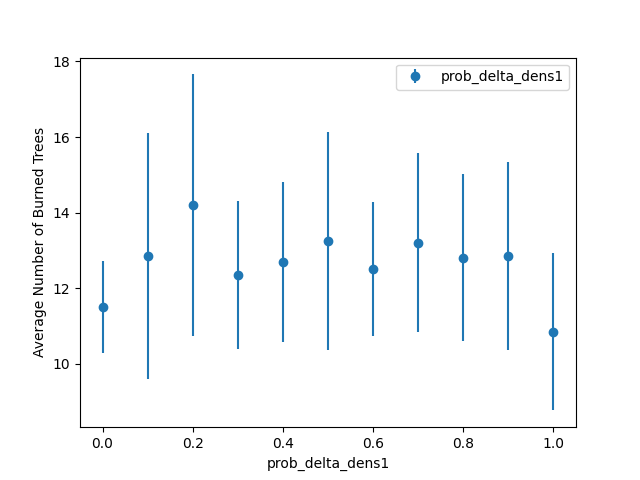
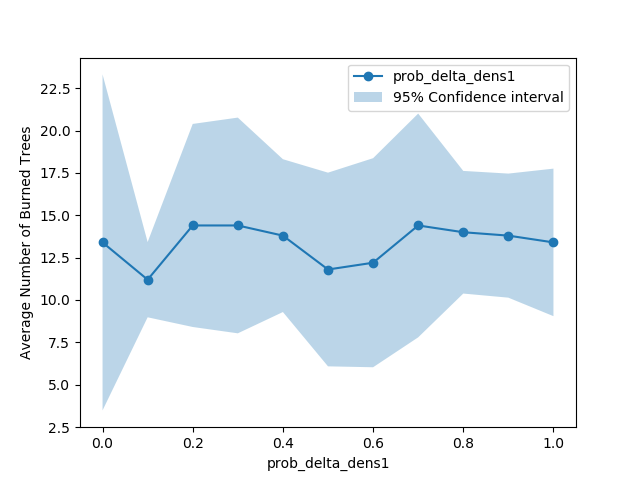
Saving data simulation

diff --git a/make_plots.py b/make_plots.py
@@ -3,6 +3,9 @@ from simulate import WildFireSimulation
 import os
 import numpy as np
 import scipy.stats as stats
+import openpyxl
+import pandas as pd
+import time
 
 class MakePlots:
 
@@ -11,28 +14,47 @@ class MakePlots:
 
     def sensitivity_analysis(self, sim, parameter, values, n_simulations):
         results = []
-        for value in values:
+        start_time = time.time()
+        for i in range(0, len(values)):
+            value = values[i]
             sim.set_params(parameter, value)
             burned = np.array([WildFireSimulation.get_burnt(sim) for _ in range(n_simulations)])
             mean = np.mean(burned)
             confidence_interval = stats.t.interval(0.95, len(burned)-1, loc=mean, scale=stats.sem(burned))
             results.append((value, mean, confidence_interval))
 
-        # values for plotting
+            # Saving burned list to excel file
+            workbook = openpyxl.load_workbook('Fire_data.xlsx')
+            sheet = workbook[parameter]
+            column_letters = ['A', 'B', 'C', 'D', 'E', 'F', 'G', 'H', 'I', 'J', 'K', 'L']
+            column_letter = column_letters[i]
+            # Iterate over the numbers and add them to the column
+            for j, number in enumerate(burned, start=1):
+                cell = f'{column_letter}{j}'
+                sheet[cell].value = number
+            workbook.save('Fire_data.xlsx')
+
+        # Define values, mean and CI
         values = [result[0] for result in results]
         means = np.array([result[1] for result in results])
         lower_ci = np.array([result[2][0] for result in results])
         upper_ci = np.array([result[2][1] for result in results])
 
         # Plot results
-        plt.figure()
-        plt.errorbar(values, means, yerr=[means - lower_ci, upper_ci - means], marker='o', linestyle='', label=parameter)
-        plt.xlabel(parameter)
-        plt.ylabel('Average Number of Burned Trees')
-        plt.legend()
+        #plt.figure()
+        #plt.fill_between(values, lower_ci, upper_ci, alpha=0.3, label='95% Confidence interval')
+        #plt.plot(values, means, 'o-', label=parameter)
+        #plt.errorbar(values, means, yerr=[means - lower_ci, upper_ci - means], marker='o', linestyle='', label=parameter)
+        #plt.xlabel(parameter)
+        #plt.ylabel('Average Number of Burned Trees')
+        #plt.legend()
 
         # Saving in 'plots' folder
-        filename = f'{parameter}_sensitivity.png'
-        filepath = os.path.join('plots', filename)
-        plt.savefig(filepath)
-        plt.show()
+        #filename = f'{parameter}_sensitivity.png'
+        #filepath = os.path.join('plots', filename)
+        #plt.savefig(filepath)
+        #plt.show()
+
+        end_time = time.time()
+        elapsed_time = end_time - start_time
+        print(f"Computation time: {elapsed_time} seconds")

diff --git a/main.py b/main.py
@@ -20,7 +20,7 @@ if __name__=="__main__":
     # Example:
     rows = 100
     cols = 100
-    n_simulations=500
+    n_simulations=1000
     
     sim = WildFireSimulation(rows, cols)
     
@@ -48,8 +48,8 @@ if __name__=="__main__":
     # perform sensitivity analysis for multiple parameters - TODO change params here
     parameters = ['prob_delta_tree1', 'prob_delta_dens1', 'wind_speed']
     values = [[0.0, 0.1, 0.2, 0.3, 0.4, 0.5, 0.6, 0.7, 0.8, 0.9, 1.0],
-              [0.0, 0.1, 0.2, 0.3, 0.4, 0.5, 0.6, 0.7, 0.8, 0.9, 1.0],
-              [5, 10, 15, 20, 25, 30, 35, 40, 45, 50]]
+             [0.0, 0.1, 0.2, 0.3, 0.4, 0.5, 0.6, 0.7, 0.8, 0.9, 1.0],
+             [0, 2, 4, 6, 8, 10, 12, 14, 16, 18, 20]]
     for i, parameter in enumerate(parameters):
         plotter.sensitivity_analysis(sim, parameter, values[i], n_simulations)
 
@@ -63,16 +63,7 @@ if __name__=="__main__":
         plt.xlabel("Final fire size $N_F$")
         plt.show()
     
-    plot_loghist(burned, 100)
-
-    def save_list_to_excel(data, file_path):
-        df = pd.DataFrame(data)
-        df.to_excel(file_path, index=False)
-
-    # Saving in 'plots' folder
-    file_name = 'burned.xlsx'
-    file_path = os.path.join('data', file_name)
-    save_list_to_excel(burned, file_path)
+    #plot_loghist(burned, 100)
 
 def calculate_confidence_interval(data):
         n = len(data)
@@ -102,4 +93,4 @@ def plot_mean_with_confidence_intervals(parameter, mean, CI):
     plt.legend()
     plt.show()
 
-plot_mean_with_confidence_intervals(parameter_list, burned_mean_list, burned_CI_list)
+#plot_mean_with_confidence_intervals(parameter_list, burned_mean_list, burned_CI_list)
